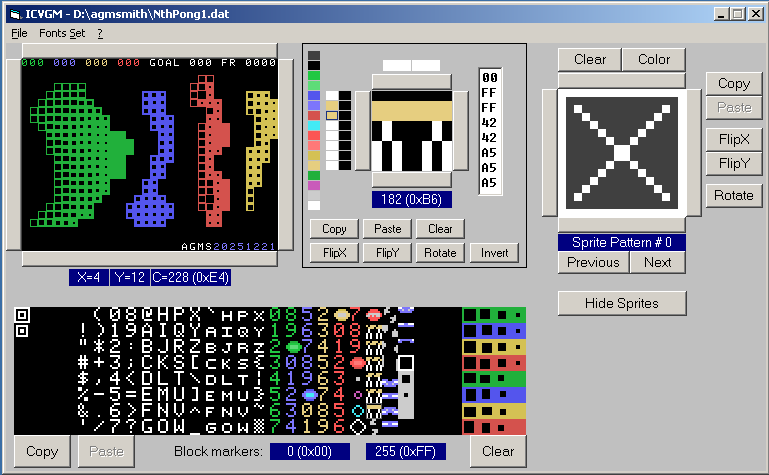
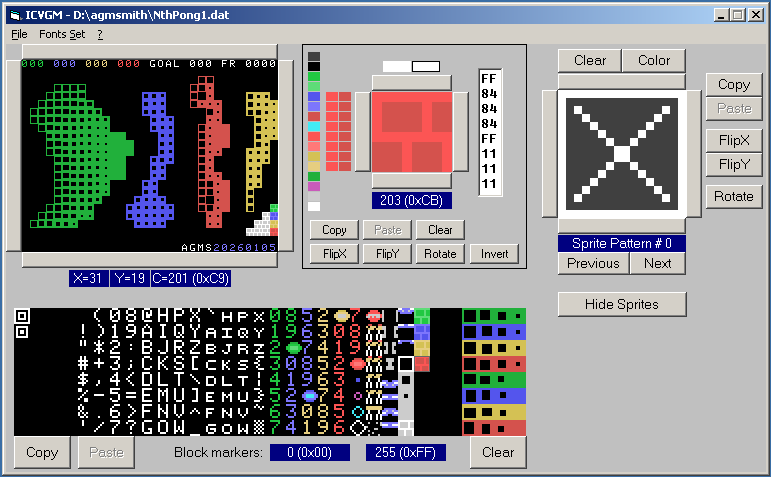
Added graphics for indestructible tiles.

diff --git a/SourceCode/Common/tiles.c b/SourceCode/Common/tiles.c
@@ -69,11 +69,11 @@ const char *g_TileAnimData[OWNER_MAX] =
   "\xE1\xE5\xE9\xED\xF1\xF5\xF9\xFD", /* OWNER_PLAYER_2 */
   "\xE2\xE6\xEA\xEE\xF2\xF6\xFA\xFE", /* OWNER_PLAYER_3 */
   "\xE3\xE7\xEB\xEF\xF3\xF7\xFB\xFF", /* OWNER_PLAYER_4 */
-  "Wall", /* OWNER_WALL_INDESTRUCTIBLE */
-  "WallP1", /* OWNER_WALL_DESTRUCTIBLE_P1 */
-  "WallP2", /* OWNER_WALL_DESTRUCTIBLE_P2 */
-  "WallP3", /* OWNER_WALL_DESTRUCTIBLE_P3 */
-  "WallP4", /* OWNER_WALL_DESTRUCTIBLE_P4 */
+  "\xC7", /* OWNER_WALL_INDESTRUCTIBLE */
+  "\xC8", /* OWNER_WALL_DESTRUCTIBLE_P1 */
+  "\xC9", /* OWNER_WALL_DESTRUCTIBLE_P2 */
+  "\xCA", /* OWNER_WALL_DESTRUCTIBLE_P3 */
+  "\xCB", /* OWNER_WALL_DESTRUCTIBLE_P4 */
   "\xB1\xB2\xB3\xB4\xB5\xB6", /* OWNER_PUP_NORMAL */
   "\xB0", /* OWNER_PUP_STOP */
   "\xBC\xBD\xBE\xBF\xC0\xC1\xC2", /* OWNER_PUP_FLY */
@@ -86,6 +86,11 @@ const char *g_TileAnimData[OWNER_MAX] =
   "2", /* OWNER_PLAYER_2 */
   "3", /* OWNER_PLAYER_3 */
   "4", /* OWNER_PLAYER_4 */
+  "Wall", /* OWNER_WALL_INDESTRUCTIBLE */
+  "WallP1", /* OWNER_WALL_DESTRUCTIBLE_P1 */
+  "WallP2", /* OWNER_WALL_DESTRUCTIBLE_P2 */
+  "WallP3", /* OWNER_WALL_DESTRUCTIBLE_P3 */
+  "WallP4", /* OWNER_WALL_DESTRUCTIBLE_P4 */
   "NNNorm", /* OWNER_PUP_NORMAL */
   "SSStop", /* OWNER_PUP_STOP */
   "UUUp", /* OWNER_PUP_FLY */
